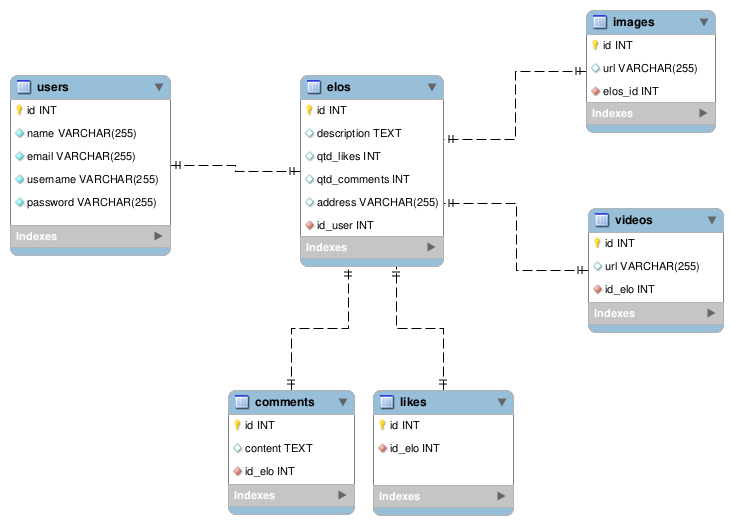
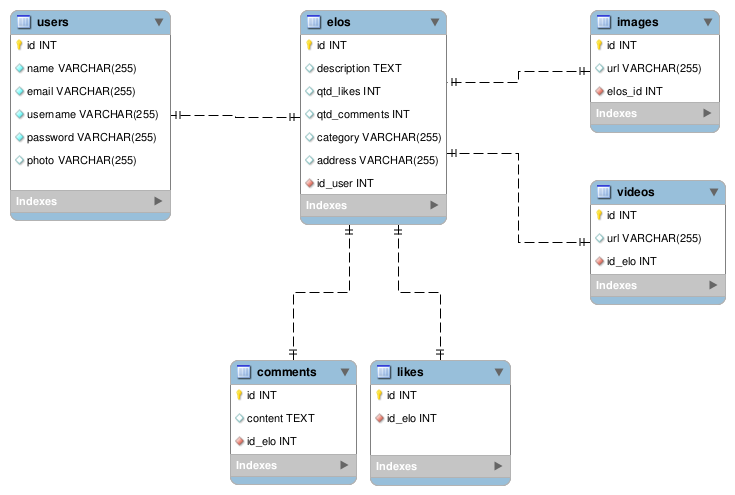
docs: Update

diff --git a/images/diagrama-classe.ts b/images/diagrama-classe.ts
@@ -3,6 +3,7 @@ export class Elo {
     private description: string 
     private qtd_likes: number
     private qtd_comments: number
+    private category: string
     private address: string
     private user: User
 }
